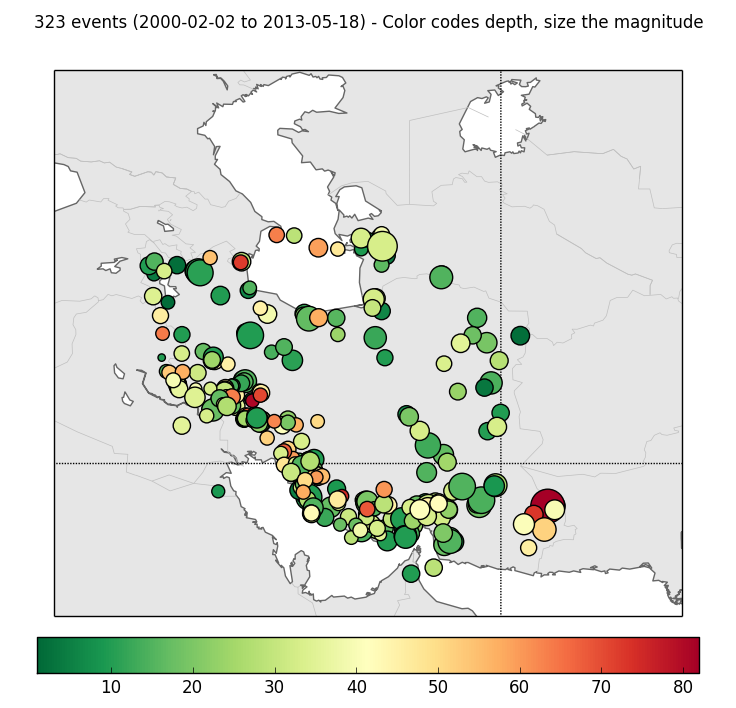
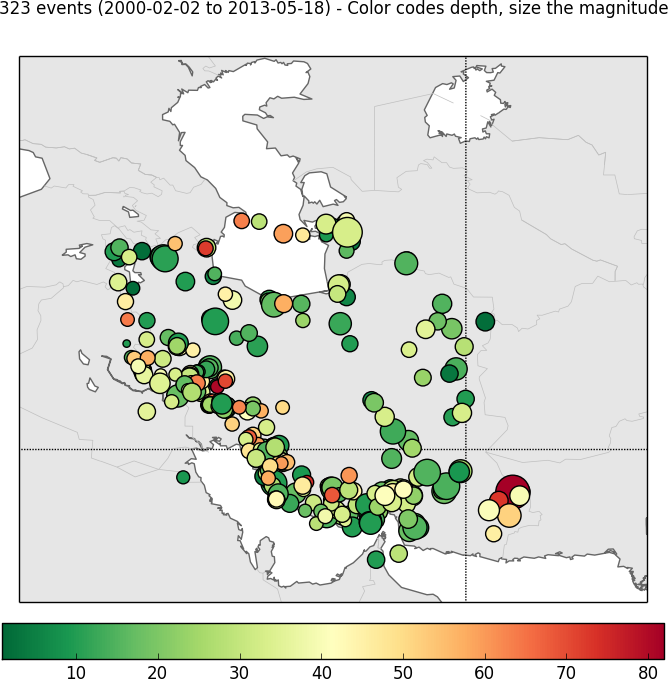
Updating README

diff --git a/README.rst b/README.rst
@@ -565,11 +565,11 @@ Geographical and historical distribution of earthquake activities (seismicity) c
    :align: center
 
 .. image:: figures/seismicity_depth.png
-   :scale: 50%
+   :scale: 20%
    :align: center
 
 .. image:: figures/seismicity_magnitude.png
-   :scale: 50%
+   :scale: 20%
    :align: center
 
 ----------------
